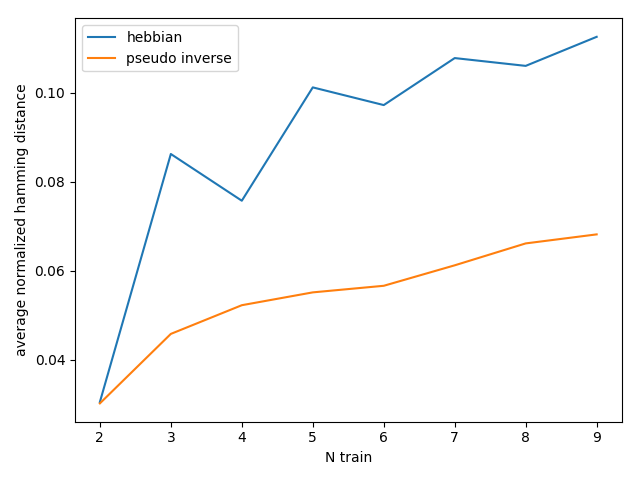
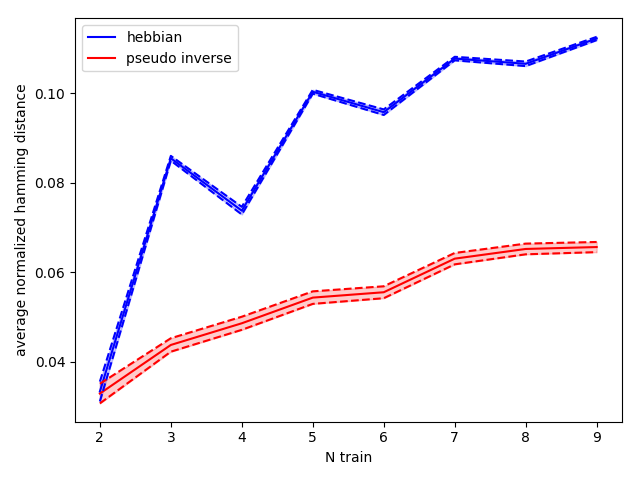
Add SE to hamming

diff --git a/test_hamming.py b/test_hamming.py
@@ -45,17 +45,16 @@ if __name__ == '__main__':
     # first do hebbian
     Ntrain_list = np.arange(2, 10)
     z = np.zeros(np.shape(Ntrain_list))
-    to_plot = np.transpose([Ntrain_list, z, z])
+    to_plot = np.transpose([Ntrain_list, z, z, z, z])
 
     train_keys_to_choose = list(range(len(train_images)))
 
     for Ndx, Ntrain in enumerate(Ntrain_list):
-        d = 0
+        dhebb = []
+        dpinv = []
         for _ in tqdm(range(20)):
             ktrain = np.random.choice(train_keys_to_choose, size=Ntrain, replace=False)
             ktest = np.where(np.isin(test_labels, train_labels[ktrain]))[0]
-
-            d += len(ktest)
 
             h_hebb = hopfield(train_images[ktrain], test_images[ktest], theta=0, nprocess=2500)
             h_pinv = hopfield(train_images[ktrain], test_images[ktest], theta=0, nprocess=2500, pseudoinverse=True)
@@ -68,16 +67,32 @@ if __name__ == '__main__':
 
             for proc_img_hebb, proc_img_pinv, train_img in zip(proc_hebb, proc_pinv, corresponding_train):
                 hd = hamming_normalized(proc_img_hebb, train_img)
-                to_plot[Ndx][1] += hd
+                dhebb.append(hd)
                 hd = hamming_normalized(proc_img_pinv, train_img)
-                to_plot[Ndx][2] += hd
+                dpinv.append(hd)
 
-        to_plot[Ndx][1] /= d
-        to_plot[Ndx][2] /= d
+        meanhebb = np.average(dhebb)
+        meanpinv = np.average(dpinv)
+
+        sehebb = np.std(dhebb)/np.sqrt(len(dhebb))
+        sepinv = np.std(dpinv)/np.sqrt(len(dpinv))
+
+        to_plot[Ndx][1] = meanhebb
+        to_plot[Ndx][2] = sehebb
+        to_plot[Ndx][3] = meanpinv
+        to_plot[Ndx][4] = sepinv
 
     fig, ax = plt.subplots(1, 1)
-    ax.plot(to_plot[:,0], to_plot[:,1], label='hebbian')
-    ax.plot(to_plot[:,0], to_plot[:,2], label='pseudo inverse')
+    ax.plot(to_plot[:,0], to_plot[:,1], label='hebbian', c='blue')
+    ax.plot(to_plot[:,0], to_plot[:,3], label='pseudo inverse', c='red')
+
+    ax.plot(to_plot[:,0], to_plot[:,1] + to_plot[:,2], c='blue', ls='dashed')
+    ax.plot(to_plot[:,0], to_plot[:,1] - to_plot[:,2], c='blue', ls='dashed')
+    ax.plot(to_plot[:,0], to_plot[:,3] + to_plot[:,4], c='red', ls='dashed')
+    ax.plot(to_plot[:,0], to_plot[:,3] - to_plot[:,4], c='red', ls='dashed')
+
+    ax.fill_between(to_plot[:,0], to_plot[:,1] + to_plot[:,2], to_plot[:,1] - to_plot[:,2], color='blue', alpha=0.2)
+    ax.fill_between(to_plot[:,0], to_plot[:,3] + to_plot[:,4], to_plot[:,3] - to_plot[:,4], color='red', alpha=0.2)
 
     ax.set_xlabel('N train')
     ax.set_ylabel('average normalized hamming distance')
